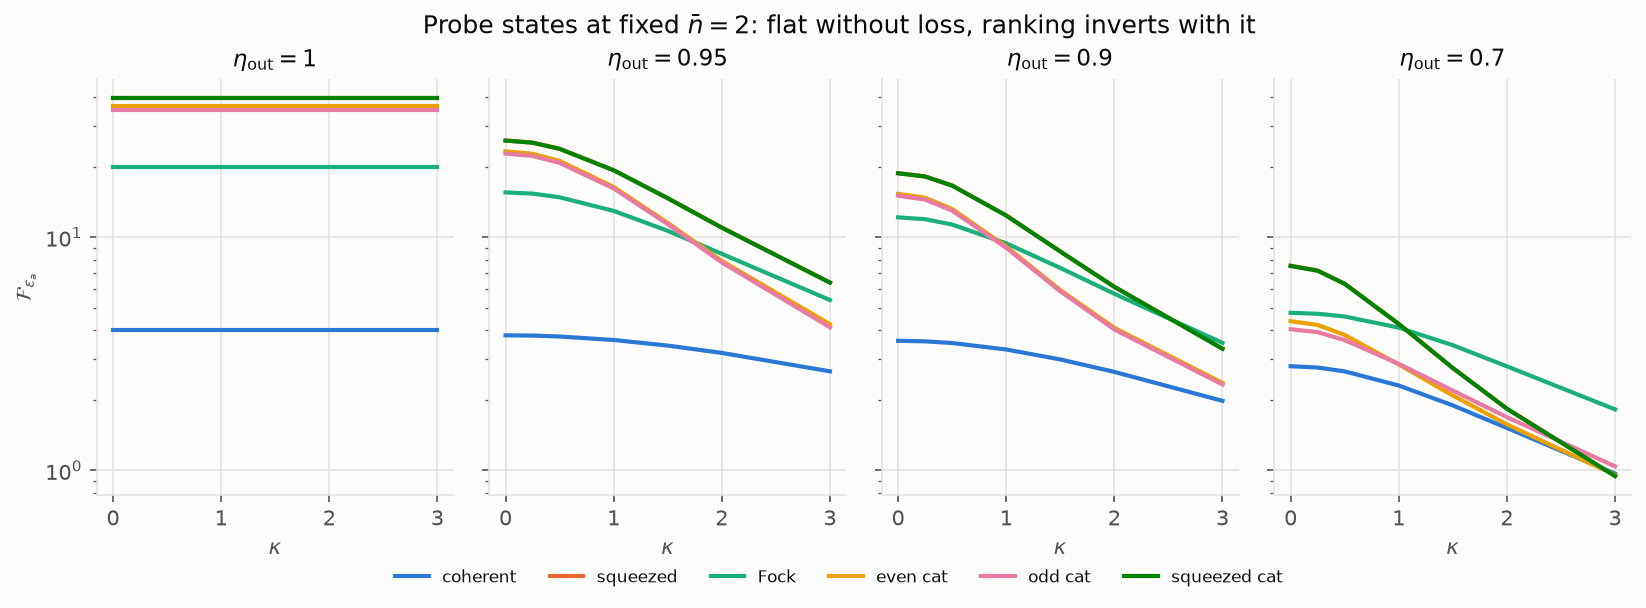
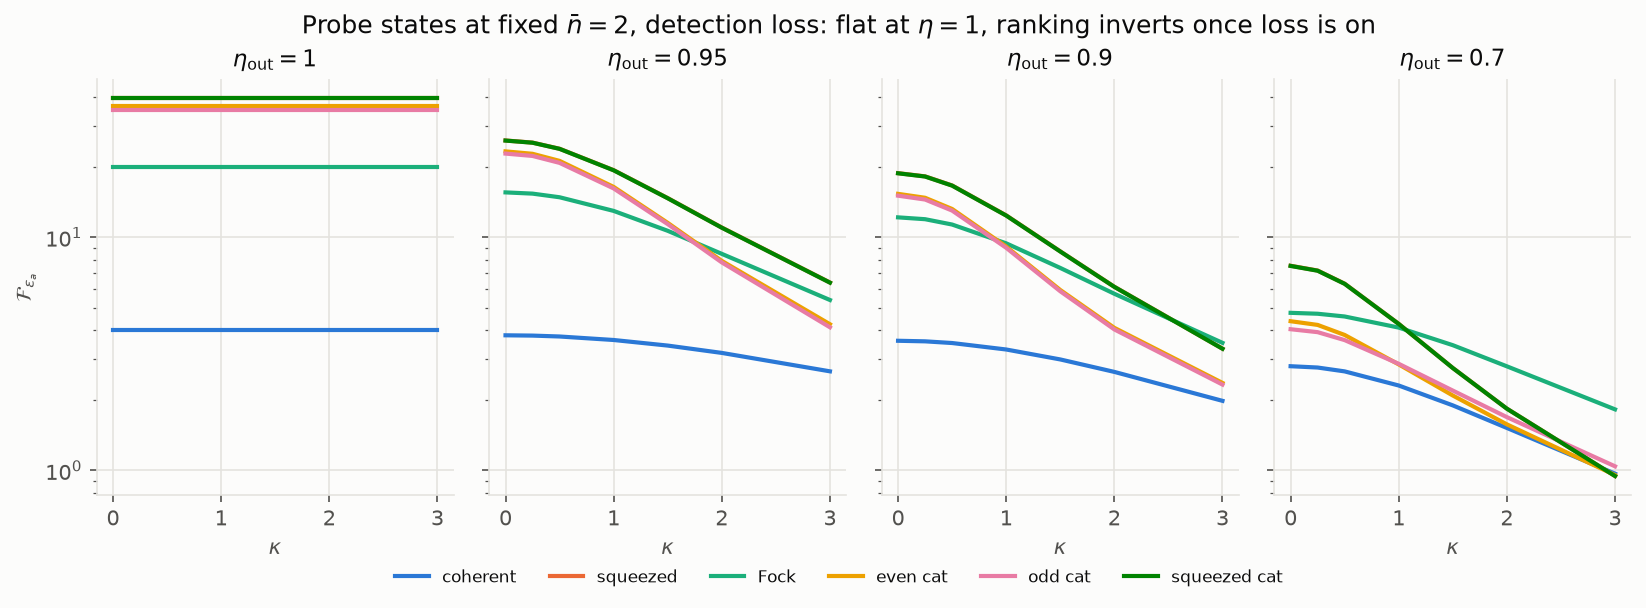
Label the loss model used in every results section
The orderings collapse onto one number under stage-separated loss and separate
under concurrent loss, so which model a section used is load-bearing and was
only stated in some of them.

Adds a key at the top of Results mapping each section to its loss model, and
tags each section in place.  Sections 1, 3, 4 and 5 all use stage-separated loss
(eta_in/pn_in before the interaction, eta_out/pn_out after); only 2 and 2b touch
concurrent loss.  Section 1's heading now says so, since "BA1, BA2 and BA3
coincide" holds only there.

Sections 3, 4 and 5 also now note that they run ordering BA3, which under
stage-separated loss equals BA1 and BA2 -- so those rankings are
ordering-independent, and would not be under concurrent loss.

Two figure titles updated to name the loss model, so the images are
self-describing when shown on their own.

Claude-Session: https://claude.ai/code/session_01APUYjnBPWQxa8QLvKTpwdz

Changed region(s): [[0.1859, 0.0312, 0.8366, 0.0625]]

diff --git a/backaction-qfi/make_figures.py b/backaction-qfi/make_figures.py
@@ -83,7 +83,8 @@ def fig_orderings(d, out):
                             + w * len(left) / len(right) / 2, right[s],
                             width=w * len(left) / len(right) * 0.9,
                             color=t["series"][ORDER.index(s)], label=LABELS[s])
-            axes[0].set_title(rf"signal in $p$ (physical), $\kappa={kappa:g}$" "\nBA1 = BA2 = BA3")
+            axes[0].set_title(rf"signal in $p$ (physical), $\kappa={kappa:g}$, detection loss"
+                              "\nBA1 = BA2 = BA3")
             axes[1].set_title("signal in $x$ (non-commuting)\nBA3 bracketed by BA1, BA2")
             for ax in axes:
                 ax.set_xticks(np.arange(4))
@@ -159,8 +160,8 @@ def fig_states_vs_kappa(d, out):
                 ax.set_xlabel(r"$\kappa$")
                 ax.set_title(rf"$\eta_{{\rm out}} = {eta:g}$")
             axes[0].set_ylabel(r"$\mathcal{F}_{\epsilon_a}$")
-            fig.suptitle(r"Probe states at fixed $\bar n = 2$: flat without loss, "
-                         r"ranking inverts with it", y=1.0)
+            fig.suptitle(r"Probe states at fixed $\bar n = 2$, detection loss: flat at "
+                         r"$\eta = 1$, ranking inverts once loss is on", y=1.0)
             fig.subplots_adjust(wspace=0.1)
             legend_below(fig, axes[0], ncol=6)
             finish(fig, str(out / "fig4_states_vs_kappa"), name)

diff --git a/backaction-qfi/README.md b/backaction-qfi/README.md
@@ -107,11 +107,31 @@ squeezed vacuum. The `converged` column in every CSV flags the four points
 
 ## Results
 
-### 1. BA1, BA2 and BA3 coincide — they do not merely bound each other
+**Which loss model each section uses.** This matters more than it looks: the
+orderings collapse onto one number under stage-separated loss and separate under
+concurrent loss, so every result below is tagged.
+
+| section | loss model | parameters |
+|---|---|---|
+| 1. orderings | **stage-separated** | `eta_out` |
+| 2. loss placement | all three | `eta_in` / `eta_ch` / `eta_out` |
+| 2b. orderings under concurrent loss | **concurrent** | `eta_ch` |
+| 3. phase noise | **stage-separated** | `pn_in`, `eta_out` |
+| 4. probe states vs κ | **stage-separated** | `eta_out` |
+| 5. ⟨n⟩ scaling | **stage-separated** | `eta_out` |
+
+*Stage-separated* means loss and phase noise act strictly **before**
+(`eta_in`, `pn_in`) or **after** (`eta_out`, `pn_out`) the opto-mechanical
+interaction. *Concurrent* (`eta_ch`, `pn_ch`) means they act **during** it,
+alongside the Hamiltonian — the realistic model for an interferometer, where the
+two processes are not separable in time.
+
+### 1. BA1, BA2 and BA3 coincide under stage-separated loss — they do not merely bound each other
 
 ![orderings](results/fig1_orderings.png)
 
-`results/orderings.csv`, ⟨n⟩ = 2, `eta_out = 0.9`.
+`results/orderings.csv`, ⟨n⟩ = 2, **detection loss** `eta_out = 0.9` — i.e.
+stage-separated. For the concurrent case see §2b, where this degeneracy lifts.
 
 | state | κ | no BA | BA1 | BA2 | BA3 | max\|BAᵢ − BA3\| |
 |---|---|---|---|---|---|---|
@@ -175,7 +195,8 @@ injection-side loss under back-action. A single "total loss" figure hides it.
 
 ![concurrent orderings](results/fig6_concurrent_orderings.png)
 
-`results/concurrent_orderings.csv`, ⟨n⟩ = 2, `eta_ch = 0.8`.
+`results/concurrent_orderings.csv`, ⟨n⟩ = 2, **concurrent loss** `eta_ch = 0.8`
+— loss acting *during* the interaction, in contrast to every other section.
 
 | state | κ | BA1 | BA2 | BA3 | spread | BA3 bracketed |
 |---|---|---|---|---|---|---|
@@ -207,7 +228,9 @@ because the earlier runs idealised loss into separate stages.
 
 ![phase noise](results/fig3_phase_noise.png)
 
-`results/phase_noise.csv`, κ = 1, `eta_out = 0.9`.
+`results/phase_noise.csv`, κ = 1, `eta_out = 0.9`, `pn_in` scanned — all
+**stage-separated** (input phase noise before the interaction, detection loss
+after). Ordering is `BA3`, which under this loss model equals BA1 and BA2.
 
 | σ_φ (rad) | 0.0 | 0.1 | 0.2 | 0.3 | 0.5 |
 |---|---|---|---|---|---|
@@ -227,7 +250,9 @@ because the earlier runs idealised loss into separate stages.
 
 ![states vs kappa](results/fig4_states_vs_kappa.png)
 
-`results/states_vs_kappa.csv`.
+`results/states_vs_kappa.csv`. **Stage-separated detection loss** (`eta_out`),
+ordering `BA3` — which under this loss model equals BA1 and BA2, so the ranking
+here is ordering-independent. Under concurrent loss it would not be.
 
 **η = 1 — every state is exactly flat in κ.** Radiation pressure on its own
 costs nothing: it is unitary and commutes with the signal generator, so it only
@@ -258,7 +283,8 @@ drives the back-action.
 
 ![nbar scaling](results/fig5_nbar_scaling.png)
 
-`results/nbar_scaling.csv`, `results/nbar_scaling_fits.csv`. `α_local` is the
+`results/nbar_scaling.csv`, `results/nbar_scaling_fits.csv`. **Stage-separated
+detection loss** (`eta_out`) throughout, ordering `BA3`. `α_local` is the
 log–log slope between the top two grid points (⟨n⟩ = 4 and 6); α = 1 is
 shot-noise-like for this displacement QFI.
 
